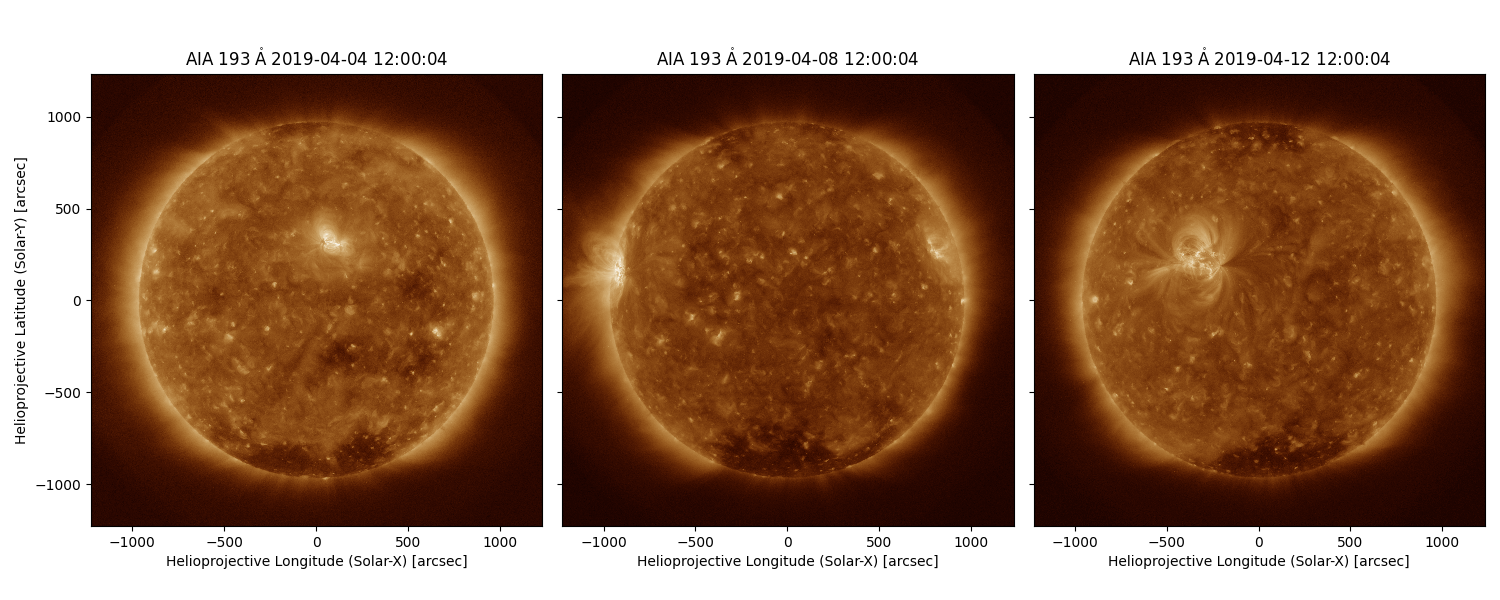
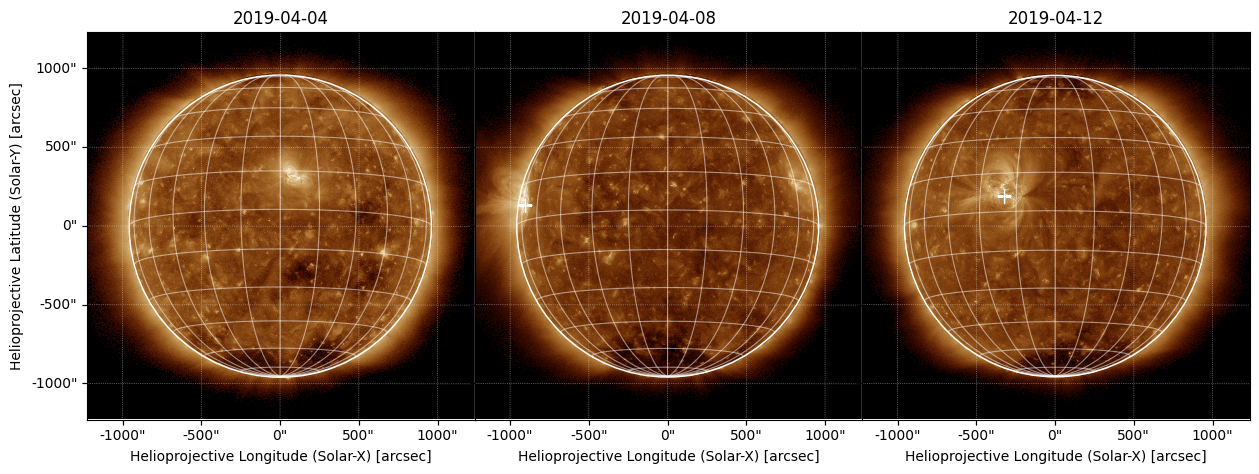
Eoin's comments

diff --git a/5/observations_vs_theory.tex b/5/observations_vs_theory.tex
@@ -2,32 +2,45 @@
 \doublespacing
 \chapter{The intrinsic sizes of Type III radio bursts and comparison to recent simulations.}
 \label{chap:observations_vs_theory}
-Recent developments in the modelling of radio waves in a turbulent corona have made predictions about source sizes that have not yet been qualitatively compared to interferometric observations. Scattering of radio waves off of density inhomogeneities in the solar corona is considered to be the dominant cause of the size and shape of radio bursts. By understanding scattering, the turbulent nature of processes that generate density inhomogeneities can be studied. Turbulence in the corona can give insight into how energy is transferred from large scale phenomena down to the microscales resulting in the million degree Kelvin temperatures that have puzzled solar physicists for decades. New models of radio wave scattering, therefore, are the first step to solving fundamental physical problems in the solar corona. However, unless the models agree with observations, their use is limited at best and as such, comparisons between models and observations are crucial. In this chapter I utilise the direct visibility fitting method described in Chapter \ref{chap:measuring_source_sizes} and apply it to 30 Type III radio bursts. It is found that these bursts have a mean size along the major and minor axis of FWHM\textsubscript{x} = 16.27 arcmin and FWHM\textsubscript{y} = 11.96 arcmin respectively. No trend of source size with respect to helioprojective angle is found, which is in direct contrast to predictions from modelling if the intrinsic size of a burst is a point source and the degree of anisotropy is high $\alpha \sim 0.3$. This study suggests that although many are in agreement, further exploration of the parameters of scattering simulations are necessary before they can be used to predict the nature of coronal density inhomogeneities.
+Recent developments in the modelling of radio waves in a turbulent corona have made predictions about source sizes that have not yet been qualitatively compared to interferometric observations. Scattering of radio waves off of density inhomogeneities in the solar corona is considered to be the dominant cause of the size and shape of radio bursts. By understanding scattering, the turbulent nature of processes that generate density inhomogeneities can be studied. Turbulence in the corona can give insight into how energy is transferred from large scale phenomena down to the microscales potentially resulting in the million degree Kelvin temperatures that have puzzled solar physicists for decades. New models of radio wave scattering, therefore, are the first step to solving fundamental physical problems in the solar corona. However, unless the models agree with observations, their use is limited and as such, comparisons between models and observations are crucial. In this chapter I utilise the direct visibility fitting method described in Chapter \ref{chap:measuring_source_sizes} and apply it to 30 Type III radio bursts observed with LOFAR from 10-90~MHz. Using a Markov Chain Monte Carlo (MCMC) fitting method, it is determined that these bursts have a mean size along the major and minor axis of FWHM\textsubscript{x} = 16.27 arcmin and FWHM\textsubscript{y} = 11.96 arcmin respectively. No trend of source size with respect to helioprojective angle is found, which is in direct contrast to predictions from modelling if the intrinsic size of a burst is a point source and the degree of anisotropy is high $\alpha \sim 0.3$. I discuss reasons for this discrepancy and how improved imaging and additions to scattering models can be used to resolve them.
+%This study suggests that although many are in agreement, further exploration of the parameters of scattering simulations are necessary before they can be used to predict the nature of coronal density inhomogeneities.
 
 \section{Introduction}
 \label{sec:obsvtheory_intro}
-The computational modelling of radio wave scattering has seen considerable development over the 50-odd years since some of the first simulations by e.g. \cite{Fokker1965} and \cite{Steinberg1971}. The theory for these early works followed from a generalisation of \cite{Chandrasekhar1952}, as was discussed in Chapter \ref{chap:theory}, and was developed to explain the observations of radio burst source size, position, directivity (power received from source in some solid angle compared to power from an isotropic source in the same solid angle) and time profile. These models considered scattering of radio photons off of density inhomogeneities in the solar corona as many small angle scatterings before the photons were allowed to travel freely. Simulations of this kind fell out of favour by the mid 1980s and remained mostly dormant until \cite{Thejappa2007} investigated the source directivity and time profiles of bursts using a different power spectrum of isotropic density inhomogeneities. In the studies by e.g. \cite{Fokker1965} and \cite{Steinberg1971}, the inhomogeneities were assumed to have a Gaussian power spectrum. However, in the intervening 30 years knowledge of turbulence in the solar corona proved this assumption to be incorrect. \cite{Coles1989} collated the results of numerous experiments to give the following description of the density inhomogeneity power spectrum. At large scales, greater than a few hundred kilometres, the spectrum is well described by the Kolmogorov spectrum with a power law index of 11/3. For scales lower than these but greater than a few kilometres, the spectrum becomes shallower and is better described with a power law index of $\sim 3$. Finally, on the smallest scales less than a few kilometres the spectrum steepens again. This steepening has been interpreted as the scale at which energy is dissipated by turbulence. \cite{Coles1989} also found that this inner scale increases with heliocentric distance. \cite{Bastian1994} expanded on this description of the density inhomogeneity power spectrum and investigated the angular broadening of radio waves sources at centimetre wavelengths.
+The computational modelling of radio wave scattering has seen considerable development over the 50-odd years since some of the first simulations by e.g. \cite{Fokker1965} and \cite{Steinberg1971}. The theory for these early works followed from a generalisation of \cite{Chandrasekhar1952}, as was discussed in Chapter \ref{chap:theory}, and was developed to explain the observations of radio burst source size, position, directivity (power received from source in some solid angle compared to power from an isotropic source in the same solid angle) and time profile. These models considered scattering of radio photons off of density inhomogeneities in the solar corona as being due to many scattering events at small angles. Simulations of this kind fell out of favour by the mid 1980s and remained mostly dormant until \cite{Thejappa2007} investigated the source directivity and time profiles of bursts using a different power spectrum of isotropic density inhomogeneities. In the studies by e.g. \cite{Fokker1965} and \cite{Steinberg1971}, the inhomogeneities were assumed to have a Gaussian power spectrum. However, in the intervening 30 years knowledge of turbulence in the solar corona proved this assumption to be incorrect. \cite{Coles1989} collated the results of numerous experiments to give the following description of the density inhomogeneity power spectrum. At large scales, greater than a few hundred kilometres, the spectrum is well described by the Kolmogorov spectrum \citep{Kolmogorov1941} with a power law index of 11/3. For scales smaller than these but greater than a few kilometres, the spectrum becomes shallower and is better described with a power law index of $\sim 3$. Finally, on the smallest scales less than a few kilometres the spectrum steepens again. This steepening has been interpreted as the scale at which energy is dissipated by turbulence. \cite{Coles1989} also found that this inner scale increases with heliocentric distance. \cite{Bastian1994} expanded on this description of the density inhomogeneity power spectrum and investigated the angular broadening of radio waves sources at centimetre wavelengths.
 
-Comparisons between the models mentioned above and observations of radio bursts have also developed over time. \cite{Stewart1972} compared the observed positions of fundamental and harmonic emission and related it to the then contemporary scattering models \citep[e.g.][]{Fokker1965,Steinberg1971,Riddle1974}. As our knowledge of solar turbulence and the power spectrum of density inhomogeneities improved so too did the instrumentation, allowing for more accurate observations of radio bursts and thus more accurate comparisons. In particular, radio interferometers such as LOFAR and the MWA have the angular resolution to investigate radio emission from both bursts \citep{Zhang2020} and the quiet sun \citep{Sharma2020}. Data from space-craft has also been used to directly compare with the model of \cite{Thejappa2007}.\cite{Krupar2018} use observations from STEREO A and B to study the time profiles of Type III radio bursts and find that these can be explained from Monte Carlo scattering code with a value for the relative r.m.s density fluctuations of $\varepsilon \sim 0.06-0.07$. This was expanded on by \cite{Krupar2020} who used data from Parker Solar probe and found that $\varepsilon$ decreased with height in the solar wind.
+Comparisons between the models mentioned above and observations of radio bursts have also developed over time. \cite{Stewart1972} compared the observed positions of fundamental and harmonic emission and related it to the then contemporary scattering models \citep[e.g.][]{Fokker1965,Steinberg1971,Riddle1974}. As our knowledge of solar turbulence and the power spectrum of density inhomogeneities improved so too did the instrumentation, allowing for more accurate observations of radio bursts and thus more accurate comparisons. In particular, radio interferometers such as LOFAR and the MWA have the angular resolution to investigate radio emission from both bursts \citep{Zhang2020} and the quiet sun \citep{Sharma2020}. Data from space-craft has also been used to directly compare with the model of \cite{Thejappa2007}. \cite{Krupar2018} use observations from STEREO A and B to study the time profiles of Type III radio bursts and find that these can be explained from Monte Carlo scattering code with a value for the relative r.m.s density fluctuations of $\varepsilon \sim 0.06-0.07$. This was expanded on by \cite{Krupar2020} who used data from Parker Solar Probe and found that $\varepsilon$ decreased with height in the solar wind.
 
-The latest development in the modelling of radio wave scattering is by \cite{Kontar2019}. Rather than using the small scattering angle approximation of previous work, \cite{Kontar2019} build on the work of \cite{Arzner1999} and \cite{Bian2019}. In this approach, the effect of anisotropic density inhomogeneities is treated as photon diffusion in momentum space and the Hamiltonian equations for photon position and momentum can be solved iteratively to trace a photon's path. This allows for a continuous transition from weak to strong scattering, whereas previous work is limited to regime of small angle scattering. \cite{Kontar2019} assume a spherically symmetric corona with an anisotropic distribution of electron density fluctuations, with wavenumber $\mathbf{q}$, such that $q_\parallel$ is parallel to the local radial direction. They perform Monte Carlo simulations of photons emitted from a point source at $\omega = 1.1 \omega_p(R_s)$ via fundamental plasma emission at a distance $R_s$ and an electron density from the \cite{Parker1960} density model of a spherically symmetric corona with constant temperature. The image and time profile of each burst was found by recording the arrival of each photon at some distance where scattering is considered negligible. For a radio burst that would be observed at $\sim 35$ MHz ($f_p = \omega_p/2 \pi \sim 32$ MHz) \cite{Kontar2019} find that an anisotropy factor of $\alpha = 0.3$ is necessary to explain observations of burst decay times. The effect of source location on the modelled image are also investigated and it is found that sources appear more elongated in the y direction close to the disk limb and almost circular at disk centre. This effect is less evident when an anisotropy factor of $\alpha = 0.5$ is considered.
+The latest development in the modelling of radio wave scattering is by \cite{Kontar2019}. Rather than using the small scattering angle approximation of previous work, \cite{Kontar2019} build on the work of \cite{Arzner1999} and \cite{Bian2019}. In this approach, the effect of anisotropic density inhomogeneities is treated as photon diffusion in momentum space and the Hamiltonian equations for photon position and momentum can be solved iteratively to trace a photon's path. This allows for a continuous transition from weak to strong scattering, whereas previous work is limited to regime of small angle scattering. \cite{Kontar2019} assume a spherically symmetric corona with an anisotropic distribution of electron density fluctuations, with wavenumber $\mathbf{q}$, such that $q_\parallel$ is parallel to the local radial direction. They perform Monte Carlo simulations of photons emitted from a point source at $\omega = 1.1 \omega_p(R_s)$ via fundamental plasma emission at a distance $R_s$ and an electron density from the \cite{Parker1960} density model of a spherically symmetric corona with constant temperature. In the \cite{Kontar2019} model the kinematic properties and arrival time of each photon was recorded at a predetermined distance from the burst source where scattering is considered negligible. An image was then created by projecting photons directed towards the observer back to the plane of the source. For a radio burst that would be observed at $\sim 35$~MHz ($f_p = \omega_p/2 \pi \sim 32$~MHz) \cite{Kontar2019} find that value of $\varepsilon = 0.8$ and an anisotropy factor of $\alpha = 0.3$ are necessary to explain previous observations \citep{Kontar2017}. The effect of source location on the modelled image are also investigated and it is found that sources appear more elongated in solar latitude close to the disk limb than they do at disk centre. \cite{Kontar2019} determine that this effect is less evident when an anisotropy factor of $\alpha = 0.5$ is considered.
 
-The conclusions of \cite{Kontar2019} have not yet been qualitatively compared to observations of radio bursts. In particular, whether a relationship between the source size and its location on the solar disk exists is a easy test of the validity of recent modelling efforts. In the following sections I describe how the size of the burst in the major and minor axes (FWHM\textsubscript{x} and FWHM\textsubscript{y} respectively) are determined from LOFAR observations and how their ``aspect ratio" i.e FWHM\textsubscript{x}/FWHM\textsubscript{y}, can be used to compare the observations with recent modelling simulations.
+The conclusions of \cite{Kontar2019} have not yet been qualitatively compared to observations of radio bursts. In particular, whether a relationship between the source size and its location on the solar disk exists is an easy test of the validity of recent modelling efforts. In order to verify this relationship, one can measure the source eccentricity at various helioprojective longitudes. However, due to the effects of imaging algorithms on observed source size, extreme care must be taken in this regard. The approach taken here directly fits a 2D elliptical Gaussian to the interferomteric visibilities, thereby eliminating the need to produce images. Here I improve upon \cite{Murphy2021} by implementing a Markov Chain Monte Carlo fitting method to get a robust description of fitting uncertainties. The position and size of the burst in the major and minor axes (FWHM\textsubscript{x} and FWHM\textsubscript{y} respectively) can be determined from this fitting and used to calculate the eccentricity or ``aspect ratio"  of the burst i.e FWHM\textsubscript{x}/FWHM\textsubscript{y}.
+%In the following sections I describe how the size of the burst in the major and minor axes (FWHM\textsubscript{x} and FWHM\textsubscript{y} respectively) are determined from LOFAR observations and how their ``aspect ratio" i.e FWHM\textsubscript{x}/FWHM\textsubscript{y}, can be used to compare the observations with recent modelling simulations.
+
+Observations of radio bursts contain information on the scattering effects of radio waves as they travel through the corona to the observer. The process that determines this scattering needs to be fully understood before information about the solar corona can be determined from observations of radio bursts.
+By measuring the aspect ratio of Type III bursts as a function of helioprojective longitude, a direct comparison can be made to the predictions of state-of-the-art scattering simulations. If they are in agreement, we may be able to use information about the scattering effects on a source to remotely determine the physics of coronal plasma.
+%ground based observations of radio bursts can be used to accurately determine the properties of coronal plasma.	
 
 \section{Observations}
 \label{obsvtheory_observations}
-During the period 04 April 2019 to 14 April 2019 a Type III radio noise storm occurred on the sun. This storm was observed in the frequency range of 20 - 80 MHz using LOFAR in both tied-array and interferometric mode. Interferometric visibilities at a frequency of 30.47 MHz from 12:00 UTC - 13:00 UTC on April 4-8 and 11-14 were obtained. During this time a large active region rotated across the solar disk. Figure \ref{fig:ar_evolve} shows how a the active region with NOAA identification number 12738 revolves onto the disk. The active region is first classified on 08 April 2019 as a unipolar sunspot under the Hale classification and evolves to a bipolar structure by 14 April 2019. The active region remains relatively simple over the duration of the observation period. Assuming Type III radio bursts occur above this active region, it offers a perfect opportunity to study the variation of source size and shape with respect to position. 
+During the period 04 April 2019 to 14 April 2019 a Type III storm occurred on the Sun. This storm was observed in the frequency range of 20 - 80 MHz using LOFAR in both tied-array and interferometric mode. Interferometric visibilities at a frequency of 30.47 MHz from 12:00 UTC - 13:00 UTC on April 4-8 and 11-14 are used for this study. During this time a large active region rotated across the solar disk. Figure \ref{fig:ar_evolve} shows how a the active region with NOAA identification number 12738 revolves onto the disk. The active region is first classified on 08 April 2019 as a unipolar sunspot under the Hale classification and evolves to a bipolar structure by 14 April 2019. Assuming Type III radio bursts occur above this active region, it offers a perfect opportunity to study the variation of source size and shape with respect to position. 
 
 \begin{figure}[ht]
 \centering
 \includegraphics[width=\columnwidth]{aia193_ar_evolve.png}
-\caption[Evolution of active region 12738 as it revolves around the disk.]{Evolution of active region 12738 as it revolves around the disk. Images are in the 193 \AA \ passband of AIA showing hot material in the solar corona. It is expected that Type III bursts should be centred above the active region. The left panel shows the sun on the first day of the observation where active region 12738 has not yet rotated onto disk. The middle panel shows the active region on the solar limb and is the first day where the active region is classified. The right panel shows the active region closer to the centre of the disk. }
+\caption[Evolution of active region 12738 as it revolves around the disk.]{Evolution of active region 12738 as it revolves around the disk. Images are in the 193 \AA \ passband of AIA showing hot material in the solar corona. It is expected that Type III bursts should be centred above the active region. The left panel shows the sun on the first day of the observation where active region 12738 has not yet rotated onto disk. The middle panel shows the active region on the solar limb and is the first day where the active region is classified. The right panel shows the active region closer to the centre of the disk. In both the middle and right panel active region 12738 is marked with a white cross.}
 \label{fig:ar_evolve}
 \end{figure}
 
 \section{Method}
 \label{sec:obsvtheory_method}
-By fitting their interferometric visibilities as described in Chapter \ref{chap:measuring_source_sizes}, the size and position of 30 Type III radio bursts over the period of 04 April 2019 to 14 April 2019 were found. The bursts were identified in LOFAR beamformed observations and their peak time determined using an automatic peak finding algorithm. Figure \ref{fig:dynamic_spectrum_070419} shows the automatically identified bursts at 30 MHz. In total, 320 bursts were identified in this way. Unfortunately, due to the strength of these bursts, the calibration of interferometric data failed for $\sim 90 \%$ of them. 30 bursts were identified manually as having successfully been calibrated and their properties fit.  
+The size and position of 30 Type III radio bursts over the period of 04 April 2019 to 14 April 2019 were determined by directly fitting their interferometric visibilities. The bursts were identified in LOFAR beamformed observations and their peak time determined using an automatic peak finding algorithm. Figure \ref{fig:dynamic_spectrum_070419} shows the automatically identified bursts at 30 MHz. In total, 320 bursts were identified in this way. Unfortunately, due to the strength of these bursts, the calibration of interferometric data failed for $\sim 90 \%$ of them. 30 bursts were identified manually as having successfully been calibrated and their properties fit.  
+
+\begin{figure}[ht]
+\centering
+\includegraphics[width=\columnwidth]{peak_times_30MHz_2019-04-07T120000_130000.png}
+\caption[Dynamic spectrum of Type III storm on 07 April 2019.]{Dynamic spectrum of Type III storm on 07 April 2019. The white dots indicate the bursts identified by an automatic peak finding algorithm, the red cross indicates the brightest burst.}
+\label{fig:dynamic_spectrum_070419}
+\end{figure}
 
 In order to do this, it is necessary to obtain the probability distribution for the parameters determined during each fit. This can be done by employing a Markov Chain Monte Carlo (MCMC) technique. MCMC methods generate samples from a probability distribution, in this case the posterior probability density function of the fitting parameters, $\Theta$, given the data, $D$,
 \begin{equation}
@@ -78,12 +91,7 @@ Once the MCMC has run for enough time to generate independent samples of the pos
 
 %As well as determining the source shape and position at its peak, the area of the source over its duration was also measured. This was done by fitting a straight line to the source area over the duration of the burst, which was estimated to be 1 second before its peak and 2 seconds afterwards.
 
-\begin{figure}[ht]
-\centering
-\includegraphics[width=\columnwidth]{peak_times_30MHz_2019-04-07T120000_130000.png}
-\caption[Dynamic spectrum of Type III storm on 07 April 2019.]{Dynamic spectrum of Type III storm on 07 April 2019. The white dots indicate the bursts identified by an automatic peak finding algorithm, the red cross indicates the brightest burst.}
-\label{fig:dynamic_spectrum_070419}
-\end{figure}
+
 
 \section{Results}
 \label{sec:obsvtheory_results}

diff --git a/1/introduction.tex b/1/introduction.tex
@@ -23,7 +23,7 @@ The Sun is our nearest star and the centre of our solar system however, apart fr
 % Here, $^1_1\mbox{H}$ is a proton or Hydrogen nucleus, $^2_1\mbox{H}$ is its isotope Deuterium, $^3_2\mbox{He}$ is the Helium isotope Triteum, $^4_2\mbox{He}$ is Helium, $e^+$ is a positron, $\nu_e$ is an electron neutrino and $\gamma$ is a gamma ray photon. A complete ppI chain releases $4.2 \times 10^{-12}$ J of energy in the form of electromagnetic radiation. The energy output of all pp chains account for 98.8\% of the total energy produced by the Sun \citep{Turck-Chieze2011}. 
 
 % Photons generated in the ppI travel outwards from the core however, their small mean free path of 0.9cm means that this takes on the order of $10^5$ years to reach the solar surface \citep{Mitalas1992}. At 70\% of the Sun's radius (0.7 R$_{\odot}$), the temperature has cooled to 1 MK thereby allowing electrons to bind to atomic orbitals, drastically decreasing the scattering rate of photons. Energy transfer from here to the solar surface at 1 R$_{\odot}$ is now primarily done through convection. 
-If one were to stop reading this thesis now they would be forgiven for thinking that there is nothing much interesting to be said about the Sun that distinguish it from other stars. However, given our proximity it, we are able to observe a vast array of phenomena, many of which have direct terrestrial impacts. These phenomena take place in the solar atmosphere and shall be described briefly below. The study of these phenomena is a study of the plasma and magnetic field structure of the solar atmosphere and gives insights into energy generation and transport.
+Due to our proximity to the Sun, we are able to observe a vast array of phenomena, many of which have direct terrestrial impacts. These phenomena take place in the solar atmosphere and shall be described briefly below. The study of these phenomena is a study of the plasma and magnetic field structure of the solar atmosphere and gives insights into energy generation and transport.
 \subsection{The Photosphere}
 The layer of the Sun at 1 R$_{\odot}$ is known as the photosphere and is what would be called the surface of the Sun. The temperature of the photosphere, alternatively the surface temperature of the Sun, is $\sim 6000$~K and has a number density of the order of $10^{17} \mbox{cm}^{-3}$, at which point the mean free path of visible photons becomes much greater than the distance between the Sun and the Earth and can be thought as coming directly from the solar surface.
 

diff --git a/6/future_work.tex b/6/future_work.tex
@@ -145,7 +145,7 @@ A previous case study of a Type IIIb-III pair (a fundamental-harmonic pair of Ty
 \begin{figure}[ht]
 \centering
 \includegraphics[width=0.7\columnwidth]{Zhang_2020.png}
-\caption[Type IIIb - III pair observed by \cite{Zhang2020}]{A Type IIIb - III pair observed by \cite{Zhang2020}. Panels a1-3 show the fundamental Type IIIb burst observed with LOFAR and imaged using WSCLEAN. Panels b1-6 show the harmonic Type III burst at a frequency of 26.56 MHz.}
+\caption[Type IIIb - III pair observed by \cite{Zhang2020}]{A Type IIIb - III pair observed by \cite{Zhang2020}. Panels a1-3 show the fundamental Type IIIb burst observed with LOFAR and imaged using WSCLEAN. Panels b1-6 show the harmonic Type III burst at a frequency of 26.56~MHz.}
 \label{fig:typeIIIbIII}
 \end{figure}
 
